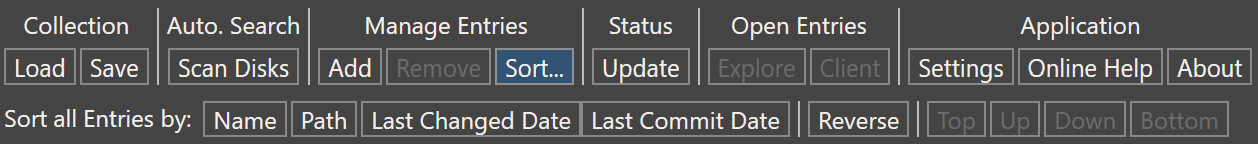
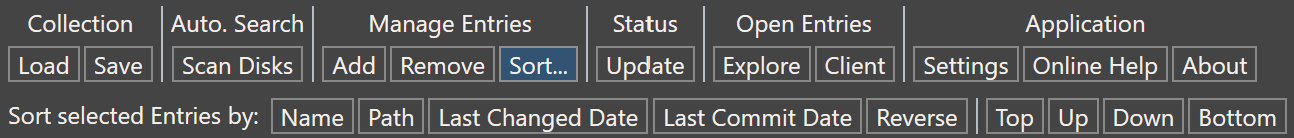
Fixed layout of sort buttons

Changed region(s): [[0.0, 0.058, 1.0, 0.6087], [0.0, 0.6957, 1.0, 0.9855], [0.775, 0.1159, 0.93, 0.2899]]

diff --git a/app/MainWindow.xaml b/app/MainWindow.xaml
@@ -208,9 +208,8 @@
 				<TextBlock Margin="3,0,6,0">Entries by:</TextBlock>
 				<Button Margin="0,0,2,0" Click="SortByNameButton_Click">Name</Button>
 				<Button Margin="0,0,2,0" Click="SortByPathButton_Click">Path</Button>
-				<Button Click="SortByLastChangedDateButton_Click">Last Changed Date</Button>
-				<Button Click="SortByLastCommitDateButton_Click">Last Commit Date</Button>
-				<Separator Margin="4,0" Style="{StaticResource {x:Static ToolBar.SeparatorStyleKey}}"></Separator>
+				<Button Margin="0,0,2,0" Click="SortByLastChangedDateButton_Click">Last Changed Date</Button>
+				<Button Margin="0,0,2,0" Click="SortByLastCommitDateButton_Click">Last Commit Date</Button>
 				<Button Click="SortReverseButton_Click">Reverse</Button>
 				<Separator Margin="4,0" Style="{StaticResource {x:Static ToolBar.SeparatorStyleKey}}"></Separator>
 				<Button Margin="0,0,2,0" IsEnabled="{Binding ElementName=EntriesView,Path=SelectedItems.Count}" Click="SortMoveTopButton_Click">Top</Button>
